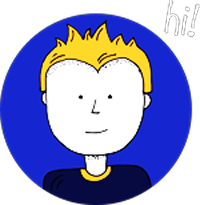
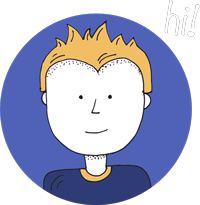
added resizing for hero image; added alternate hero image

diff --git a/index.html b/index.html
@@ -162,7 +162,7 @@ header("Cache-Control: max-age=2592000");
 			</div>
 		</div>
 		<div class="row tight-width-whitespace portfolio-row">
-			<div class="col-xs-12 col-sm-6 col-lg-6">
+			<div class="col-xs-12 col-sm-12 col-lg-6">
 				<a href="#" data-lightbox="img/11.jpg" data-gallery-id="gallery-1" data-caption="Website for Atlanta's Premiere dog salon" data-frame="snapshot-lb"><img src="img/11.jpg" class="img-responsive portfolio-thumb" alt="woman with white dog on a leash"/></a>
 				<h3 class="mg-md text-center">
 					Website for Atlanta&rsquo;s premiere Dog Sitters
@@ -171,7 +171,7 @@ header("Cache-Control: max-age=2592000");
 					I love dogs and was super excited to make a website for an Atlanta dog company.
 				</p>
 			</div>
-			<div class="col-xs-12 col-sm-6 col-lg-6">
+			<div class="col-xs-12 col-sm-12 col-lg-6">
 				<a href="#" data-lightbox="img/2.jpg" data-gallery-id="gallery-1" data-caption="web redesign for the best cupcakes in Atlanta" data-frame="snapshot-lb"><img src="img/2.jpg" class="img-responsive portfolio-thumb" alt="vanilla cupcakes with blue frosting and sprinkles"/></a>
 				<h3 class="mg-md text-center">
 					Web redesign for the best Atlanta&nbsp;cupcakes
@@ -182,7 +182,7 @@ header("Cache-Control: max-age=2592000");
 			</div>
 		</div>
 		<div class="row tight-width-whitespace portfolio-row">
-			<div class="col-xs-12 col-sm-6 col-lg-6">
+			<div class="col-xs-12 col-sm-12 col-lg-6">
 				<a href="#" data-lightbox="img/3.bmp" data-gallery-id="gallery-1" data-caption="New logo and website for Atlanta's best tech gear shop" data-frame="snapshot-lb"><img src="img/3.jpg" class="img-responsive portfolio-thumb" alt="aerial view of gear for technology products" /></a>
 				<h3 class="mg-md text-center">
 					New logo and website for Atl + Gear - Atlanta&rsquo;s best tech gear shop
@@ -191,7 +191,7 @@ header("Cache-Control: max-age=2592000");
 					Whenever I&rsquo;m wanting to improve my web design skills, this shop inspires me.
 				</p>
 			</div>
-			<div class="col-xs-12 col-sm-6 col-lg-6">
+			<div class="col-xs-12 col-sm-12 col-lg-6">
 				<a href="#" data-lightbox="img/4.bmp" data-gallery-id="gallery-1" data-caption="Atlanta's legal website generates 30% more clients after web redesign" data-frame="snapshot-lb"><img src="img/4.jpg" class="img-responsive portfolio-thumb" alt="Lawyer from Atlanta's legal pictured in helicopter cockpit" /></a>
 				<h3 class="mg-md text-center">
 					Atlanta&rsquo;s legal new website - Generating 30% more law clients with a refresh&nbsp;

diff --git a/css/crticalcss.css b/css/crticalcss.css
@@ -135,7 +135,8 @@ a:focus,a:hover {
 }
 
 img {
-    vertical-align: middle
+    vertical-align: middle;
+    margin: auto;
 }
 
 .carousel-inner>.item>a>img,.carousel-inner>.item>img,.img-responsive,.thumbnail a>img,.thumbnail>img {
@@ -185,7 +186,29 @@ ol,ul {
     padding-right: 15px;
     padding-left: 15px;
     margin-right: auto;
-    margin-left: auto
+    margin-left: auto;
+}
+
+.bg-t-edge {
+    background: top no-repeat 
+}
+
+@media screen and (min-width: 1300px){
+    .bg-t-edge {
+        background: top repeat 
+    }
+}
+
+@media screen and (min-width: 400px) and (max-width: 600px){
+    .image-resize-mode{
+        width: 35%;
+    }
+}
+
+@media screen and (max-width: 399px){
+    .image-resize-mode{
+        width: 45%;
+    }
 }
 
 @media (min-width: 768px) {

diff --git a/css/style4.min.css b/css/style4.min.css
@@ -77,7 +77,7 @@ a:hover {
 }
 
 .bg-t-edge {
-    background: top no-repeat
+    background: top no-repeat 
 }
 
 .bloc-bg-texture::before {
